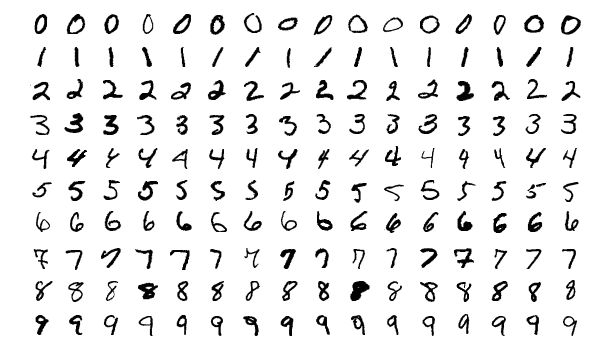
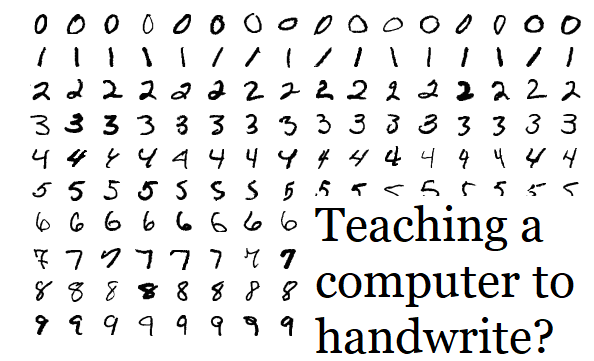
Added a project, cleaned up some code

Changed region(s): [[0.5152, 0.5485, 0.9697, 1.0], [0.9394, 0.5485, 0.9697, 0.6399], [0.8788, 0.518, 0.9091, 0.5485]]

diff --git a/portfolio-details.html b/portfolio-details.html
@@ -5,13 +5,13 @@
   <meta charset="utf-8">
   <meta content="width=device-width, initial-scale=1.0" name="viewport">
 
-  <title>Portfolio Details - iPortfolio Bootstrap Template</title>
-  <meta content="" name="descriptison">
-  <meta content="" name="keywords">
+  <title>MNIST Data-Set</title>
+  <meta name="Description" content="Analysis of the MNIST data set using a variational Autoencoder" >
+  <meta name="Machine Learning" content="Variational Autoencoder" >
 
   <!-- Favicons -->
   <link href="assets/img/favicon.png" rel="icon">
-  <link href="assets/img/apple-touch-icon.png" rel="apple-touch-icon">
+  <link href="assets/img/favicon.png" rel="apple-touch-icon">
 
   <!-- Google Fonts -->
   <link href="https://fonts.googleapis.com/css?family=Open+Sans:300,300i,400,400i,600,600i,700,700i|Raleway:300,300i,400,400i,500,500i,600,600i,700,700i|Poppins:300,300i,400,400i,500,500i,600,600i,700,700i" rel="stylesheet">
@@ -26,13 +26,6 @@
 
   <!-- Template Main CSS File -->
   <link href="assets/css/style.css" rel="stylesheet">
-
-  <!-- =======================================================
-  * Template Name: iPortfolio - v1.2.1
-  * Template URL: https://bootstrapmade.com/iportfolio-bootstrap-portfolio-websites-template/
-  * Author: BootstrapMade.com
-  * License: https://bootstrapmade.com/license/
-  ======================================================== -->
 </head>
 
 <body>
@@ -45,8 +38,8 @@
     <div class="d-flex flex-column">
 
       <div class="profile">
-        <img src="assets/img/profile-img.jpg" alt="" class="img-fluid rounded-circle">
-        <h1 class="text-light"><a href="index.html">Alex Smith</a></h1>
+        <img src="assets/img/profile-img2.jpg" alt="" class="img-fluid rounded-circle">
+        <h1 class="text-light"><a href="index.html">Adam Paslawski</a></h1>
         <div class="social-links mt-3 text-center">
           <a href="linkedin.com/in/adam-paslawski-098b53162" class="linkedin"><i class="bx bxl-linkedin"></i></a>
         </div>
@@ -61,79 +54,60 @@
         </ul>
       </nav><!-- .nav-menu -->
       <button type="button" class="mobile-nav-toggle d-xl-none"><i class="icofont-navigation-menu"></i></button>
-
     </div>
   </header><!-- End Header -->
+    <!-- ======= Hero Section ======= -->
+    <section id="hero-p" class="hero-2 d-flex flex-column justify-content-center align-items-center">
+      <div class="hero-container" data-aos="fade-in">
+        <h1>Teaching a computer to Handwrite</h1>
+      </div>
+    </section><!-- End Hero -->
 
   <main id="main">
-    <h1>This Section is under Construction, Come back soon!</h1>
-    <!-- ======= Breadcrumbs ======= -->
-    <!-- <section id="breadcrumbs" class="breadcrumbs">
-      <div class="container">
-
-        <div class="d-flex justify-content-between align-items-center">
-          <h2>Portfoio Details</h2>
-          <ol>
-            <li><a href="index.html">Home</a></li>
-            <li>Portfoio Details</li>
-          </ol>
-        </div>
-
-      </div>
-    </section> -->
-    <!-- End Breadcrumbs -->
-
     <!-- ======= Portfolio Details Section ======= -->
-    <!-- <section id="portfolio-details" class="portfolio-details">
+    <section id="portfolio-details" class="portfolio-details">
       <div class="container">
-
         <div class="portfolio-details-container">
-
-          <div class="owl-carousel portfolio-details-carousel">
-            <img src="assets/img/portfolio-details-1.jpg" class="img-fluid" alt="">
-            <img src="assets/img/portfolio-details-2.jpg" class="img-fluid" alt="">
-            <img src="assets/img/portfolio-details-3.jpg" class="img-fluid" alt="">
-          </div>
-
-          <div class="portfolio-info">
-            <h3>Project information</h3>
-            <ul>
-              <li><strong>Category</strong>: Web design</li>
-              <li><strong>Client</strong>: ASU Company</li>
-              <li><strong>Project date</strong>: 01 March, 2020</li>
-              <li><strong>Project URL</strong>: <a href="#">www.example.com</a></li>
-            </ul>
-          </div>
-
         </div>
-
         <div class="portfolio-description">
-          <h2>This is an example of portfolio detail</h2>
+          <h1>Overview</h1>
           <p>
-            Autem ipsum nam porro corporis rerum. Quis eos dolorem eos itaque inventore commodi labore quia quia. Exercitationem repudiandae officiis neque suscipit non officia eaque itaque enim. Voluptatem officia accusantium nesciunt est omnis tempora consectetur dignissimos. Sequi nulla at esse enim cum deserunt eius.
+            The MNIST data set is a collection of about 70,000 28x28 pixel images of handwritten digits like the one below.
           </p>
+          <div class="row" data-aos="fade-up">
+            <div class="col-lg-12 d-flex justify-content-center">
+              <img src="assets/img/portfolio/entire9.png" alt="">
+            </div>
+          </div>
+          <p>
+            The goal of the project is to use a variational autoencoder to learn from this data and create a latent distribution from which we can draw samples from and sample handwritten digits.
+          </p>
+          <h5>Disclaimer</h5>
+          <p>
+            The techniques used in this project were done in the a course called Statistics
+             for Machine Learning taught by <a href="http://www.cs.toronto.edu/~duvenaud/">David Duvenaud</a>
+            and <a href="http://www.jessebett.com/">Jesse Bettencourt</a> and based on the paper <a href="https://arxiv.org/pdf/1312.6114.pdf">Auto-Encoding Variational Bayes
+            </a>.
+          </p>
+          <p>Now that credit has been given where it is most certainly due, lets get into it!</p>
+          <h1>The first obvious question:</br><em>"What the heck is a variational autoencoder?"</em></h1>
+          <p>A variational autoencoder has two pieces:</p>
+          <ol>
+            <li>encoder</li>
+            <li>decoder</li>
+          </ol>
+          <p>lets start with the first part, the encoder.</p>
+          
         </div>
-
       </div>
-    </section> -->
+    </section>
     <!-- End Portfolio Details Section -->
 
   </main><!-- End #main -->
 
   <!-- ======= Footer ======= -->
   <footer id="footer">
-    <div class="container">
-      <div class="copyright">
-        <!-- &copy; Copyright <strong><span>iPortfolio</span></strong> -->
-      </div>
-      <div class="credits">
-        <!-- All the links in the footer should remain intact. -->
-        <!-- You can delete the links only if you purchased the pro version. -->
-        <!-- Licensing information: https://bootstrapmade.com/license/ -->
-        <!-- Purchase the pro version with working PHP/AJAX contact form: https://bootstrapmade.com/iportfolio-bootstrap-portfolio-websites-template/ -->
-        <!-- Designed by <a href="https://bootstrapmade.com/">BootstrapMade</a> -->
-      </div>
-    </div>
+
   </footer><!-- End  Footer -->
 
   <a href="#" class="back-to-top"><i class="icofont-simple-up"></i></a>

diff --git a/assets/css/style.css b/assets/css/style.css
@@ -20,11 +20,13 @@ a {
 a:hover {
   color: #37b3ed;
   text-decoration: none;
+  background-color:rgba(0, 0, 0, 0.1);
 }
 
 h1, h2, h3, h4, h5, h6 {
   font-family: "Raleway", sans-serif;
 }
+
 /*--------------------------------------------------------------
 # Quotations
 --------------------------------------------------------------*/
@@ -265,6 +267,7 @@ blockquote cite {
   min-width: 300px;
 }
 
+
 #hero h1 {
   margin: 0 0 10px 0;
   font-size: 64px;
@@ -299,6 +302,76 @@ blockquote cite {
     line-height: 36px;
   }
   #hero h2 {
+    font-size: 18px;
+    line-height: 24px;
+    margin-bottom: 30px;
+  }
+}
+/*--------------------------------------------------------------
+# Portfolio Hero
+--------------------------------------------------------------*/
+#hero-p {
+  width: 100%;
+  height: 35vh;
+  background: url("../img/portfolio/mlp.png") top center;
+  background-size: cover;
+  background-position: center;
+}
+
+#hero-p:before {
+  content: "";
+  background: rgba(5, 13, 24, 0.3);
+  position: absolute;
+  bottom: 0;
+  top: 0;
+  left: 0;
+  right: 0;
+  z-index: 1;
+  height:35vh;
+}
+
+#hero-p .hero-container {
+  position: relative;
+  z-index: 2;
+  min-width: 300px;
+}
+
+
+#hero-p h1 {
+  margin: 0 0 10px 0;
+  font-size: 64px;
+  font-weight: 700;
+  line-height: 56px;
+  color: #fff;
+  background-color:rgba(0, 0, 0, 0.8);
+}
+
+#hero-p p {
+  color: #fff;
+  margin-bottom: 50px;
+  font-size: 26px;
+  font-family: "Poppins", sans-serif;
+}
+
+#hero-p p span {
+  color: #fff;
+  padding-bottom: 4px;
+  letter-spacing: 1px;
+  border-bottom: 3px solid #149ddd;
+}
+
+@media (min-width: 1024px) {
+  #hero-p {
+    background-attachment: fixed;
+  }
+}
+
+@media (max-width: 768px) {
+  #hero-p h1 {
+    font-size: 28px;
+    line-height: 36px;
+  }
+  #hero-p h2 {
     font-size: 18px;
     line-height: 24px;
     margin-bottom: 30px;
@@ -481,6 +554,17 @@ section {
   top: 0;
   background: #fff;
   border: 2px solid #1f5297;
+}
+@media (max-width: 768px) {
+  .breadcrumbs .d-flex {
+    display: block !important;
+  }
+  .breadcrumbs ol {
+    display: block;
+  }
+  .breadcrumbs ol li {
+    display: inline-block;
+  }
 }
 
 

diff --git a/index.html b/index.html
@@ -106,7 +106,7 @@
         <div class="section-title">
           <h2>Resume</h2>
           <blockquote>
-            The bit where I try to make myself sound great without bragging.
+            The bit where I try to tell you how great I am without sounding overconfident, a tricky task.
           </blockquote>
         </div>
         <div class="row">
